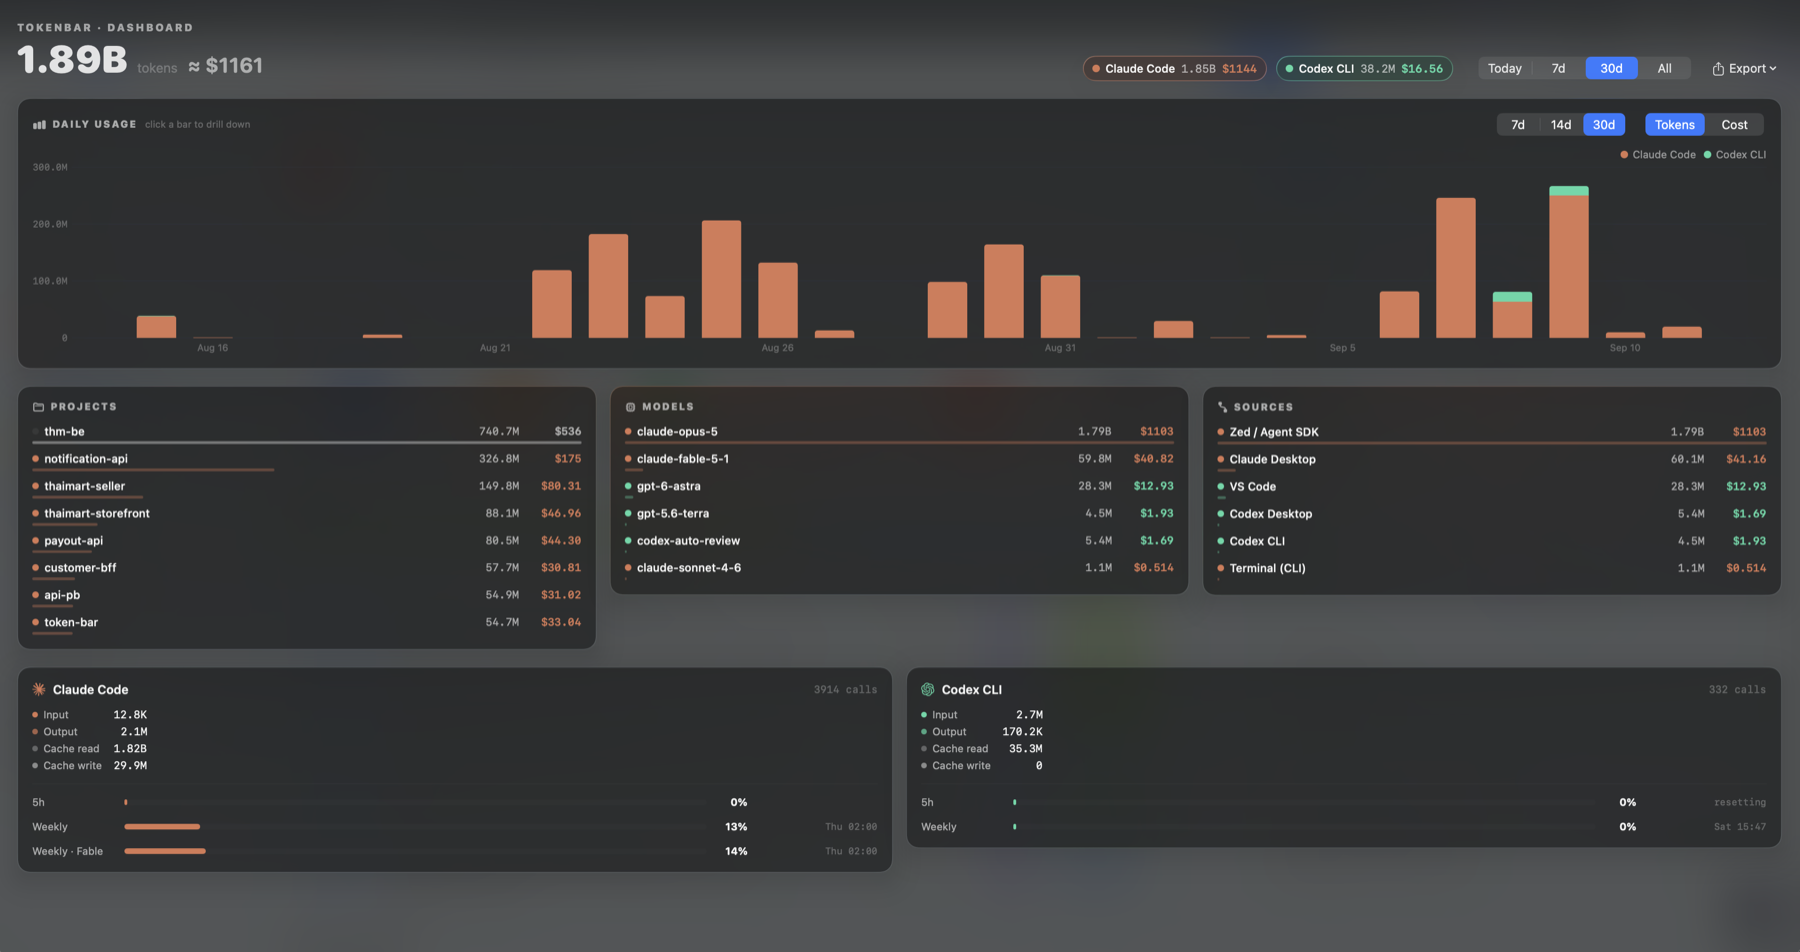
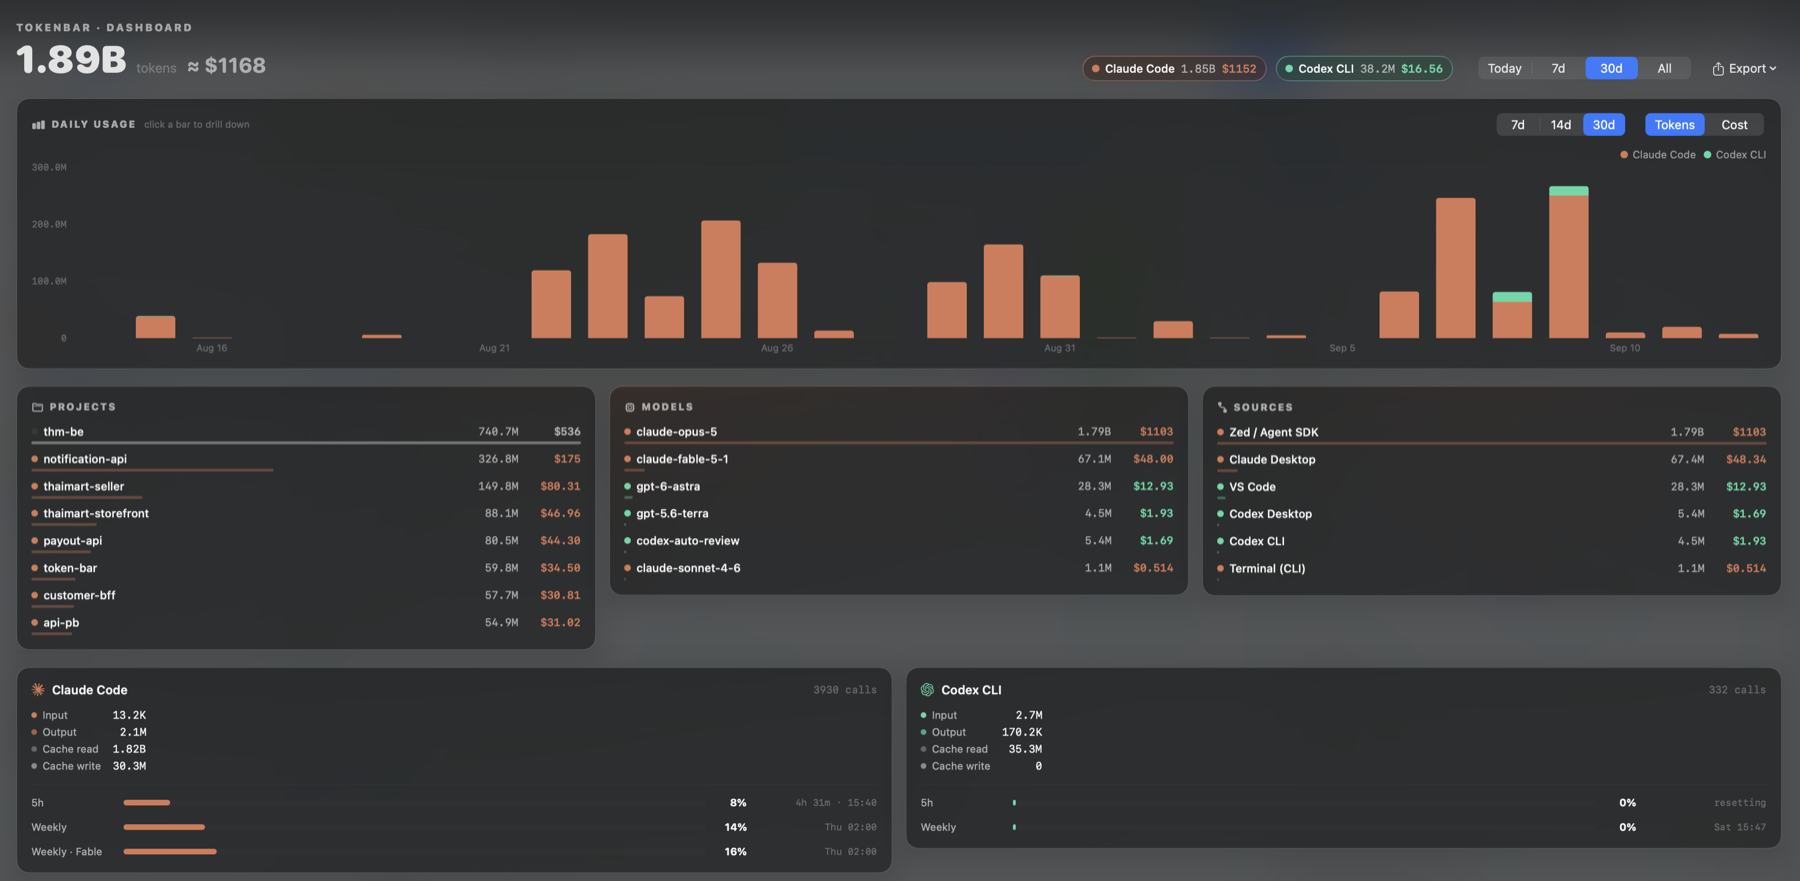
docs: restructure README, real dashboard screenshot, credits
Features first, install with the notarization note, supported-tools table
with verification status, alerts/budgets/hotkeys table, privacy, cost
estimate explanation, development notes, and a credits line.

diff --git a/README.md b/README.md
@@ -5,46 +5,78 @@
 <h1 align="center">TokenBar</h1>
 
 <p align="center">
-  <a href="https://github.com/Techit-Kakaew/token-bar/actions/workflows/ci.yml"><img src="https://github.com/Techit-Kakaew/token-bar/actions/workflows/ci.yml/badge.svg" alt="CI"></a>
+  Token usage, estimated cost and rate limits for your AI coding tools — in the macOS menu bar.<br>
+  Reads local logs only. No API keys, no accounts, no telemetry.
+</p>
+
+<p align="center">
   <a href="https://github.com/Techit-Kakaew/token-bar/releases/latest"><img src="https://img.shields.io/github/v/release/Techit-Kakaew/token-bar" alt="Release"></a>
+  <a href="https://github.com/Techit-Kakaew/token-bar/actions/workflows/ci.yml"><img src="https://github.com/Techit-Kakaew/token-bar/actions/workflows/ci.yml/badge.svg" alt="CI"></a>
+  <img src="https://img.shields.io/badge/macOS-14%2B-black" alt="macOS 14+">
+  <img src="https://img.shields.io/badge/license-MIT-blue" alt="MIT">
 </p>
 
 <p align="center">
   <img src="docs/popover.png" width="380" alt="TokenBar popover">
 </p>
 
-macOS menu-bar app that shows AI token usage & estimated cost across local AI coding CLIs.
-Reads local logs only — no API keys, no network.
+## Features
 
-| Provider | Source | Status |
+- **Usage at a glance** — tokens and list-price cost for Today / 7d / 30d / All, split into input, output, cache read and cache write, with a 14-day sparkline per tool.
+- **Rate limits** — Claude 5-hour and weekly windows (incl. per-model weekly), Codex 5-hour and weekly, with reset countdown and clock time.
+- **Where it came from** — usage attributed to source (Terminal, Claude Desktop, Zed, VS Code, …) and to project folder.
+- **Dashboard window** — 30-day stacked chart, top projects / models / sources; click a bar to drill into one day.
+- **Alerts** — limit thresholds (80 % / 95 %), daily and weekly spend budgets, and a break reminder after long continuous use.
+- **Menu bar, your way** — combined total or a single tool (its logo + tokens + worst limit); amber / red when a limit is close.
+- **Export** — events CSV, daily CSV, Markdown report; also headless from the CLI.
+- **Native** — Liquid Glass on macOS 26, light / dark / system, English or Thai, global hotkeys, launch at login.
+
+## Install
+
+Download the latest `.dmg` from **[Releases](https://github.com/Techit-Kakaew/token-bar/releases/latest)** and drag
+TokenBar.app to Applications. Universal binary (Apple Silicon + Intel), macOS 14 or newer.
+
+The app is **not notarized** yet (no Apple Developer account), so on first launch macOS may say it is damaged or from an
+unidentified developer. Clear the quarantine flag once and open it normally:
+
+```bash
+xattr -cr /Applications/TokenBar.app
+```
+
+On first launch TokenBar explains what it reads and asks before requesting anything:
+
+- **Claude limits** (optional) — reads Claude Code's login token from your Keychain to fetch 5h / weekly limits. macOS prompts once; choose *Always Allow*.
+- **Notifications** (optional) — for limit, budget and break alerts.
+
+Both can be changed later in the ⚙ menu.
+
+## Supported tools
+
+| Tool | Reads | Status |
 |---|---|---|
-| Claude Code | `~/.claude/projects/**/*.jsonl` (`message.usage`, deduped by message id) | verified |
-| Codex CLI | `~/.codex/sessions/**/*.jsonl` (`token_count` → `last_token_usage`) | verified |
-| Gemini CLI | `~/.gemini/tmp/*/chats/*.json` (`tokens` field) | format from Gemini CLI source; not exercised locally |
-| Zed Agent (native panel) | `~/Library/Application Support/Zed/threads/threads.db` — zstd JSON, `request_token_usage` (needs `brew install zstd`) | verified; no per-message timestamps → attributed to thread `updated_at` |
-| OpenCode | `~/.local/share/opencode/storage/message/*/*.json` (`tokens`, `modelID`) | **unverified** — written from the documented JSON layout; please open an issue with a sample if it misparses |
-| Qwen Code | `~/.qwen/tmp/*/chats/*.json` (Gemini CLI fork, same layout) | unverified |
+| **Claude Code** — CLI, Claude Desktop, Zed (ACP), VS Code, Agent SDK | `~/.claude/projects/**/*.jsonl` | verified |
+| **Codex CLI** — CLI, Codex Desktop, VS Code | `~/.codex/sessions/**/*.jsonl` | verified |
+| **Zed Agent** (Zed's native panel) | `~/Library/Application Support/Zed/threads/threads.db` (needs `brew install zstd`) | verified — no per-message timestamps, usage is dated by thread `updated_at` |
+| **Gemini CLI** | `~/.gemini/tmp/*/chats/*.json` | from Gemini CLI source, not exercised locally |
+| **Qwen Code** | `~/.qwen/tmp/*/chats/*.json` | Gemini CLI fork, unverified |
+| **OpenCode** | `~/.local/share/opencode/storage/message/*/*.json` | unverified — [open an issue](https://github.com/Techit-Kakaew/token-bar/issues) with a sample if it misparses |
 
-Providers with no local files are hidden automatically. Adding one = implement `UsageSource` (roots, matches, parse) + a `Provider` case.
+Tools with no local data are hidden. Cursor, Windsurf, Copilot and the web chats keep no readable local usage and cannot be supported.
+Adding a tool means implementing `UsageSource` (roots, matches, parse) and a `Provider` case.
 
-Providers without local data are hidden. Features: Today / 7d / 30d / All windows, input/output/cache breakdown, 14-day sparkline,
-per-model cost (tap a card), launch-at-login, auto refresh every 60 s. Light / dark / system theme (⚙ menu). UI in **English or Thai** — follows the system language (Thai → ไทย, anything else → English), overridable in ⚙ → Language.
-Menu-bar item can show the combined total or a single provider (its logo + tokens + worst limit) — ⚙ → "แสดงบน menubar".
+Rate limits come from `api.anthropic.com/api/oauth/usage` (Claude, polled every 5 min; if the token expires, run `claude` once)
+and from the `rate_limits` payload in Codex session logs (updates while Codex runs).
 
-## Dashboard window
+## Dashboard
 
 <img src="docs/dashboard.png" width="900" alt="TokenBar dashboard">
 
-"Dashboard" button in the popover footer opens a separate resizable window: 7/14/30-day stacked
-daily chart (tokens or cost), top **projects** (from `cwd` in logs), models, sources, and per-provider
-breakdown with rate-limit gauges. **Click a bar** to drill into that day — projects / models / sources
-switch to day-scoped data; click again or "Back" to return.
-Debug render: `TokenBar --snapshot-dashboard out.png` (`TOKENBAR_SNAPSHOT_DAY=1` preselects yesterday).
+Opens from the popover footer (or a hotkey). 7 / 14 / 30-day stacked daily chart in tokens or cost, top **projects**
+(from the working directory in the logs), **models** and **sources**, plus per-tool breakdown with limit gauges.
+Click a bar to scope everything to that day; click again or *Back* to return.
 
-## Export
-
-Dashboard → **Export** menu: events CSV (last 30 days, or the drilled-down day), daily summary CSV,
-or a Markdown report for the selected window. Headless for scripts / cron:
+**Export** (dashboard header) writes events CSV for the last 30 days or the selected day, a daily summary CSV, or a
+Markdown report for the selected window. The same outputs are available headless:
 
 ```bash
 /Applications/TokenBar.app/Contents/MacOS/TokenBar --export events 7d  > events.csv
@@ -52,111 +84,57 @@ or a Markdown report for the selected window. Headless for scripts / cron:
 /Applications/TokenBar.app/Contents/MacOS/TokenBar --export report 30d > report.md
 ```
 
+## Alerts, budgets, hotkeys
+
+All in the ⚙ menu:
+
+| Setting | Behaviour |
+|---|---|
+| Limit alert | Notification when any 5h / weekly window crosses 80 % (choose off / 70 / 80 / 90) and again at 95 %, once per reset cycle. Menu-bar icon turns amber / red and shows the worst percentage. |
+| Daily / weekly budget | Progress row under the totals; notification at 80 % and 100 %, once per period. Amounts are list-price estimates. |
+| Break reminder | Continuous use (calls less than 15 min apart) for 90 min → "take a break" notification, repeating every 45 min. All three values adjustable. |
+| Hotkeys | Toggle the popover (default `⌥⇧T`) and open the dashboard. Carbon hotkeys, no Accessibility permission. |
+| Menu bar shows | Combined total, or one tool with its logo and limit. Toggle the number on / off. |
+| Theme / Language | System / light / dark; system / English / ไทย. |
+
 ## Privacy
 
-- Reads **local log files only**; nothing is uploaded, no telemetry, no analytics.
-- The single network call is optional: with *Claude limits* enabled, TokenBar reads Claude Code's OAuth token from your
-  Keychain (macOS asks once) and calls `api.anthropic.com/api/oauth/usage` to show 5h / weekly limits.
-  Turn it off in ⚙ at any time. A once-a-day check against the GitHub Releases API looks for new versions (no identifiers sent).
-- Settings live in `UserDefaults` (`dev.techit.tokenbar.app`); nothing else is written outside the app.
+- Reads local log files only. Nothing is uploaded; no telemetry, no analytics, no identifiers.
+- Network calls: the optional Claude limits request above, and a once-a-day check of the GitHub Releases API for new versions. Both can be disabled.
+- Settings are stored in `UserDefaults` (`dev.techit.tokenbar.app`); parsed results are cached in `~/Library/Caches/dev.techit.tokenbar.app/`.
 
-## Sources
+## Cost estimates
 
-Each card splits usage by where the call came from:
-
-- **Claude Code** — `entrypoint` field: `cli` → Terminal, `claude-desktop` → Claude Desktop, `sdk-*` → Zed (ACP) / Agent SDK, `claude-vscode` → VS Code.
-- **Codex** — `session_meta.originator` / `source`: Codex CLI, Codex Desktop, VS Code.
-
-## Rate limits (5h / weekly)
-
-| Provider | Source |
-|---|---|
-| Claude Code | `GET api.anthropic.com/api/oauth/usage` using the OAuth token Claude Code stores in Keychain (`Claude Code-credentials`). Polled every 5 min. **First run shows a Keychain prompt → click "Always Allow"**. If the token expires, run `claude` once to refresh it. |
-| Codex CLI | `rate_limits` payload in the newest session log (updates while Codex runs). |
-
-Gauges turn amber ≥70 %, red ≥90 %.
-
-## Hotkeys & budgets
-
-- Global hotkeys (⚙): toggle the popover (default `⌥⇧T`) and open the dashboard (off by default). Carbon hotkeys — no Accessibility permission needed.
-- Daily / weekly spend budgets (⚙): progress bar under the totals, notification at 80 % and 100 % once per day / week. Amounts are list-price estimates.
-
-## Limit alerts
-
-Notification when any 5h / weekly window crosses 80 % (configurable: off / 70 / 80 / 90) and again at 95 %,
-once per reset cycle. The menu-bar icon turns amber / red and shows the worst percentage while over threshold.
-
-## Break reminder
-
-Detects a continuous usage streak (calls across all providers with gaps < 15 min) and posts a macOS
-notification suggesting a break after 90 min, repeating every 45 min while the streak continues.
-Thresholds live in the ⚙ menu in the popover footer. First launch asks for Notification permission.
-
-## Install
-
-**Download**: latest `.dmg` from [Releases](https://github.com/Techit-Kakaew/token-bar/releases/latest)
-(all versions on [Releases](https://github.com/Techit-Kakaew/token-bar/releases)),
-drag TokenBar.app to Applications. The build is universal (Apple Silicon + Intel) but **not notarized**
-(no Apple Developer account yet), so on first launch macOS may refuse it. Fix once:
-
-```bash
-xattr -cr /Applications/TokenBar.app
-```
-
-then open normally (or right-click → Open).
-
-**Build from source** (Xcode 15+, macOS 14+):
-
-```bash
-./build.sh --install     # native build → /Applications/TokenBar.app
-./build.sh --dmg         # universal build → dist/TokenBar-<version>.dmg
-```
-
-**Release**: bump `CFBundleShortVersionString` in `Info.plist`, commit, then `git tag vX.Y.Z && git push origin vX.Y.Z`.
-GitHub Actions builds the universal dmg and publishes the release automatically (`.github/workflows/release.yml`).
-
-App icon: PNGs in `Assets/AppIcon.xcassets` (regenerate with `scripts/make_appicon.swift`); `build.sh` compiles them with `actool` into `Assets.car` + `AppIcon.icns`.
-
-## Pricing overrides
-
-Built-in table in `Sources/TokenBar/Pricing.swift` (USD per 1M tokens). Override or add models via
-`~/.config/tokenbar/pricing.json`, matched by model-id prefix:
+Costs are **what the same tokens would cost at list price** (USD per 1M tokens, per model, with cache read / write rates),
+not what you were billed — useful for judging a subscription or comparing tools. The built-in table lives in
+`Sources/TokenBar/Pricing.swift`; override or add models in `~/.config/tokenbar/pricing.json`, matched by model-id prefix:
 
 ```json
 { "gpt-5.6": { "input": 1.75, "output": 14, "cacheRead": 0.175, "cacheWrite": 0 } }
 ```
 
-## Vendor logos
+## Development
 
-`Sources/TokenBar/Resources/logos/*.svg` — Claude, Gemini and OpenAI marks as published by [Simple Icons](https://simpleicons.org) (CC0).
-Trademarks belong to their owners; used here only to identify the tool. Loaded as template
-NSImages and tinted with each provider's accent colour. Swap the SVG to change a logo.
-
-## Custom menu-bar icon
-
-Icon is a **template image** (black + alpha, 18×18 pt) at `Sources/TokenBar/Resources/MenuBarIcon.png`
-and `MenuBarIcon@2x.png` (36×36 px). macOS tints it for light/dark menu bars automatically.
-
-- Regenerate the built-in hexagon-bars icon: `swift scripts/make_icon.swift Sources/TokenBar/Resources`
-- Or drop in your own PNGs with the same names, then `./build.sh --install`
-- Check which file is loaded: `/Applications/TokenBar.app/Contents/MacOS/TokenBar --icon`
-
-## Tests
+Swift Package, SwiftUI `MenuBarExtra`, no Xcode project. Requires Xcode 16+ (Xcode 26 for the Liquid Glass path).
 
 ```bash
-swift test
+./build.sh --install     # native build → /Applications/TokenBar.app
+./build.sh --dmg         # universal build → dist/TokenBar-<version>.dmg
+swift test               # parser fixtures, pricing, streaks, export, versions
 ```
 
-Fixtures for every parser live in `Tests/TokenBarTests/Fixtures`. Parsed results are cached per file
-(path + mtime + size) in `~/Library/Caches/dev.techit.tokenbar.app/parse-cache-v1.json`; delete it to force a full re-parse.
+Useful flags on the built binary: `--dump` (aggregated stats), `--streak`, `--notify-test`, `--icon`,
+`--snapshot out.png` / `--snapshot-dashboard out.png` (render views to PNG; env `TOKENBAR_SNAPSHOT_LANG=th`,
+`TOKENBAR_SNAPSHOT_SCHEME=light`, `TOKENBAR_SNAPSHOT_DAY=1`).
 
-## Debug
+**Release**: bump `CFBundleShortVersionString` / `CFBundleVersion` in `Info.plist`, commit, then
+`git tag vX.Y.Z && git push origin vX.Y.Z`. GitHub Actions builds the universal dmg and publishes the release.
 
-```bash
-.build/release/TokenBar --dump               # print aggregated stats
-.build/release/TokenBar --snapshot out.png   # render popover to PNG
-```
+**Icons**: app icon from `Assets/AppIcon.xcassets` (regenerate with `scripts/make_appicon.swift`, compiled by `actool`
+in `build.sh`); menu-bar template icon from `scripts/make_icon.swift`; vendor logos in `Sources/TokenBar/Resources/logos/`
+(Claude, Gemini, OpenAI marks as published by [Simple Icons](https://simpleicons.org), CC0 — trademarks belong to their owners).
 
-## License
+## Credits & license
 
-MIT
+Made by [Techit Kakaew](https://github.com/Techit-Kakaew). Built with Claude Code.
+Released under the [MIT License](LICENSE).
